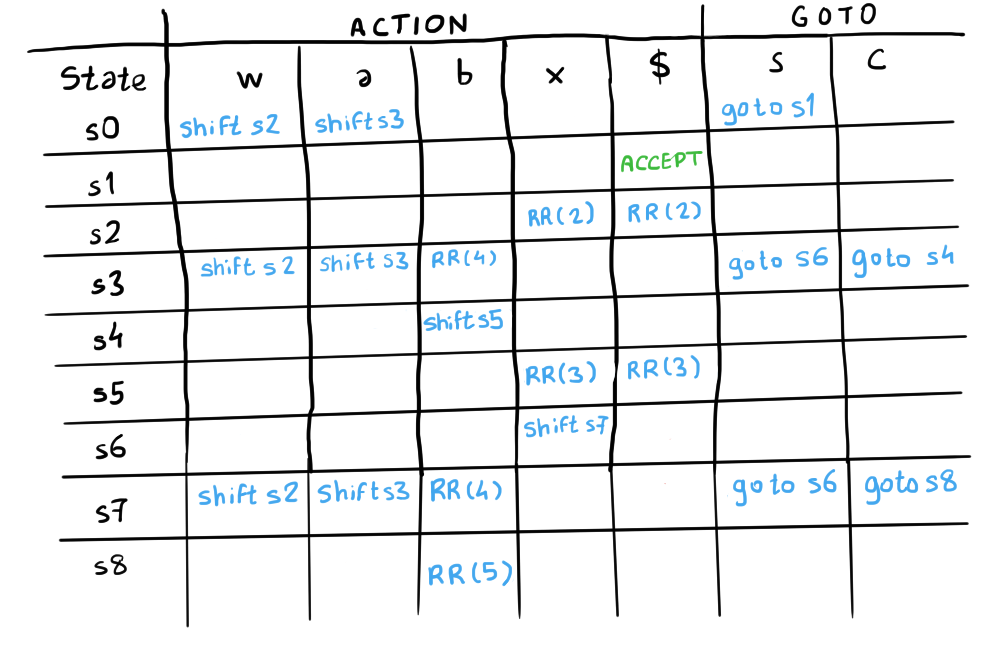
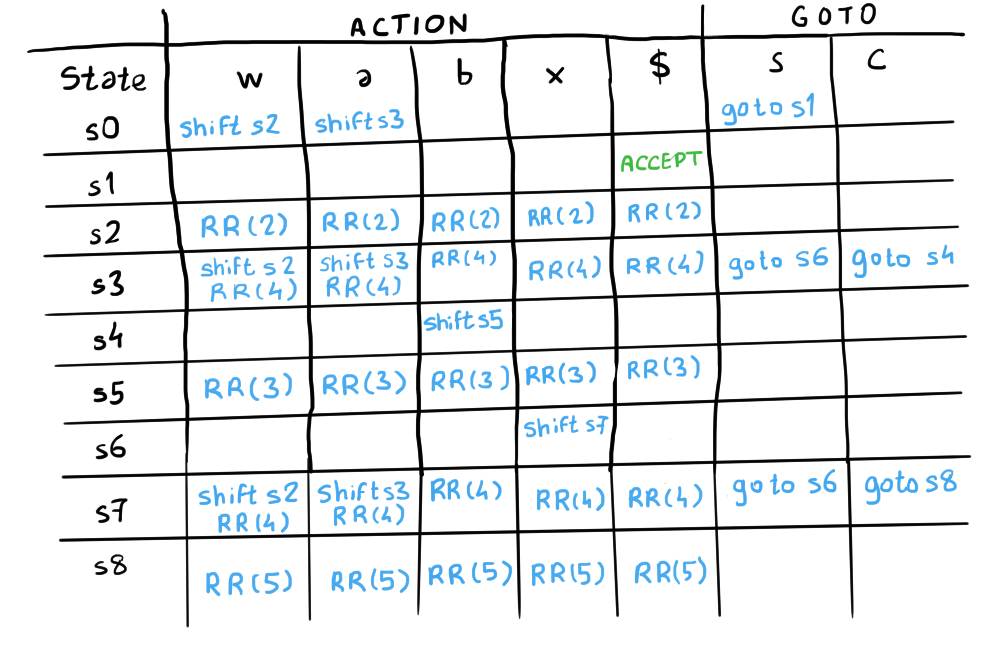
Fix to E2019

diff --git a/exams/2019/exam.md b/exams/2019/exam.md
@@ -36,7 +36,7 @@ C -> S x C ·
 
 ![](exam_1d.png)
 
-**e)** The grammar is LR(0), since the LR(0) parser table, presented below, has no shift / reduce or reduce / reduce conflicts.
+**e)** The grammar is not LR(0), since the LR(0) parser table, presented below, has shift / reduce conflicts.
 
 ![](exam_1e.png)
 
